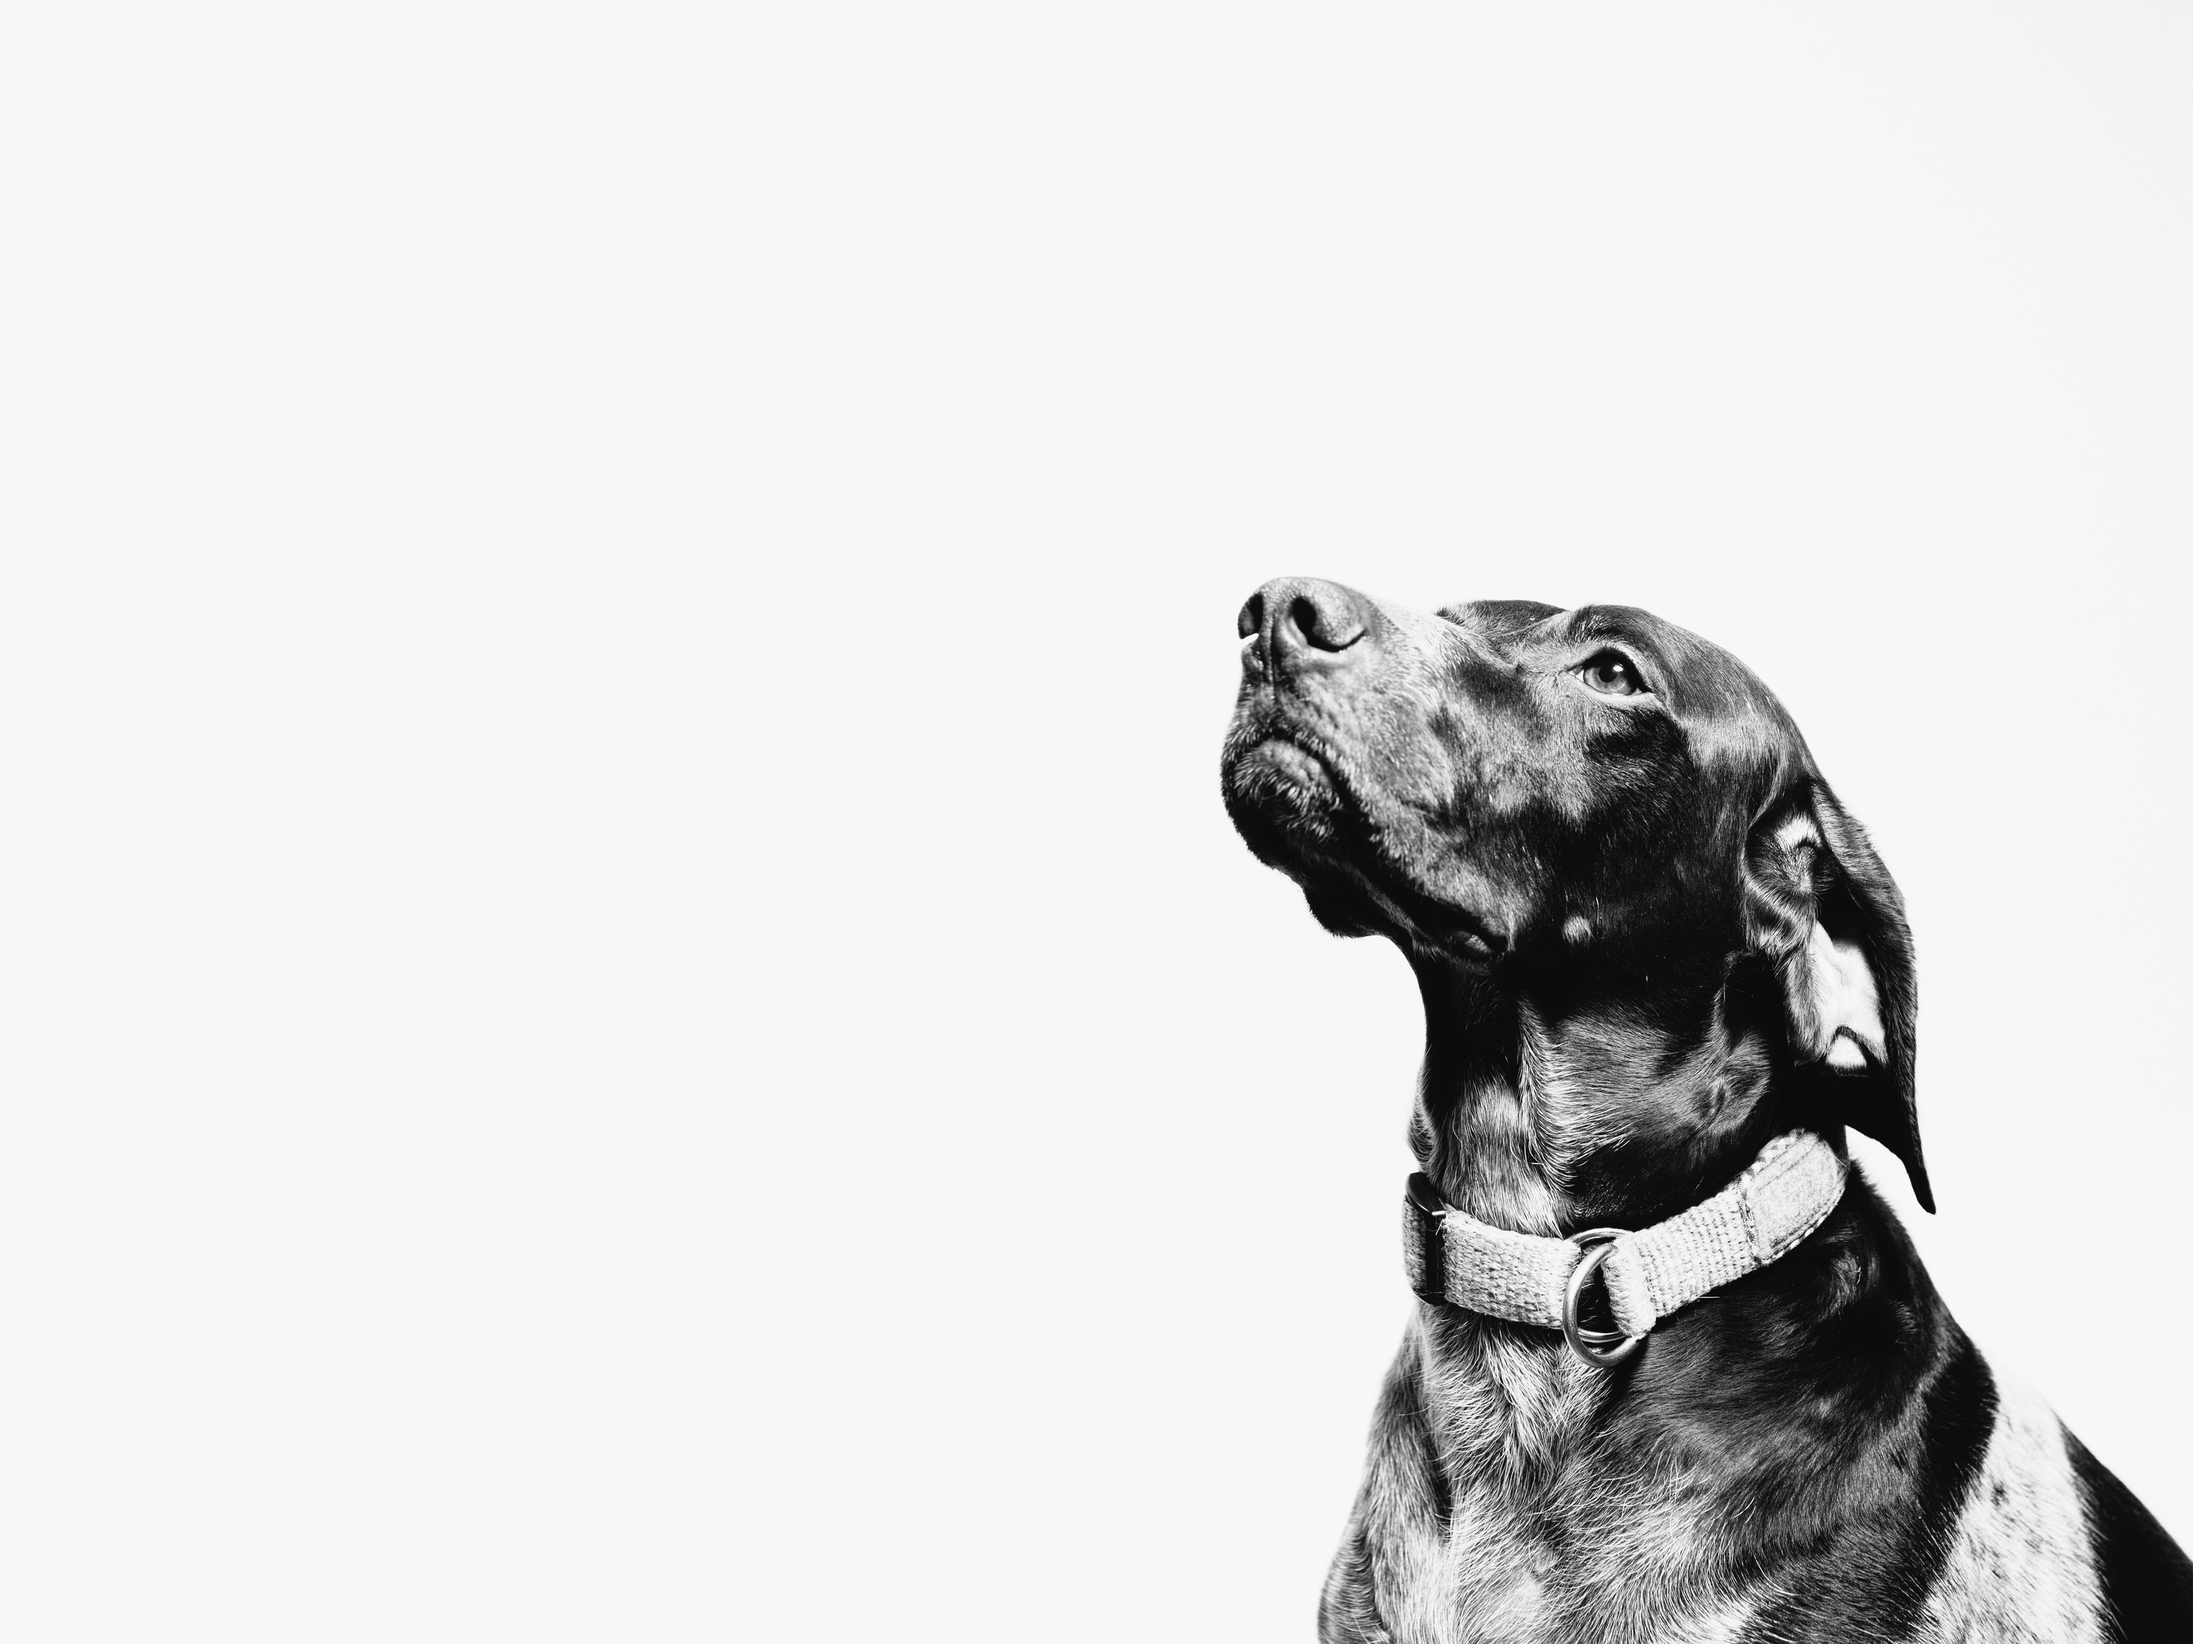
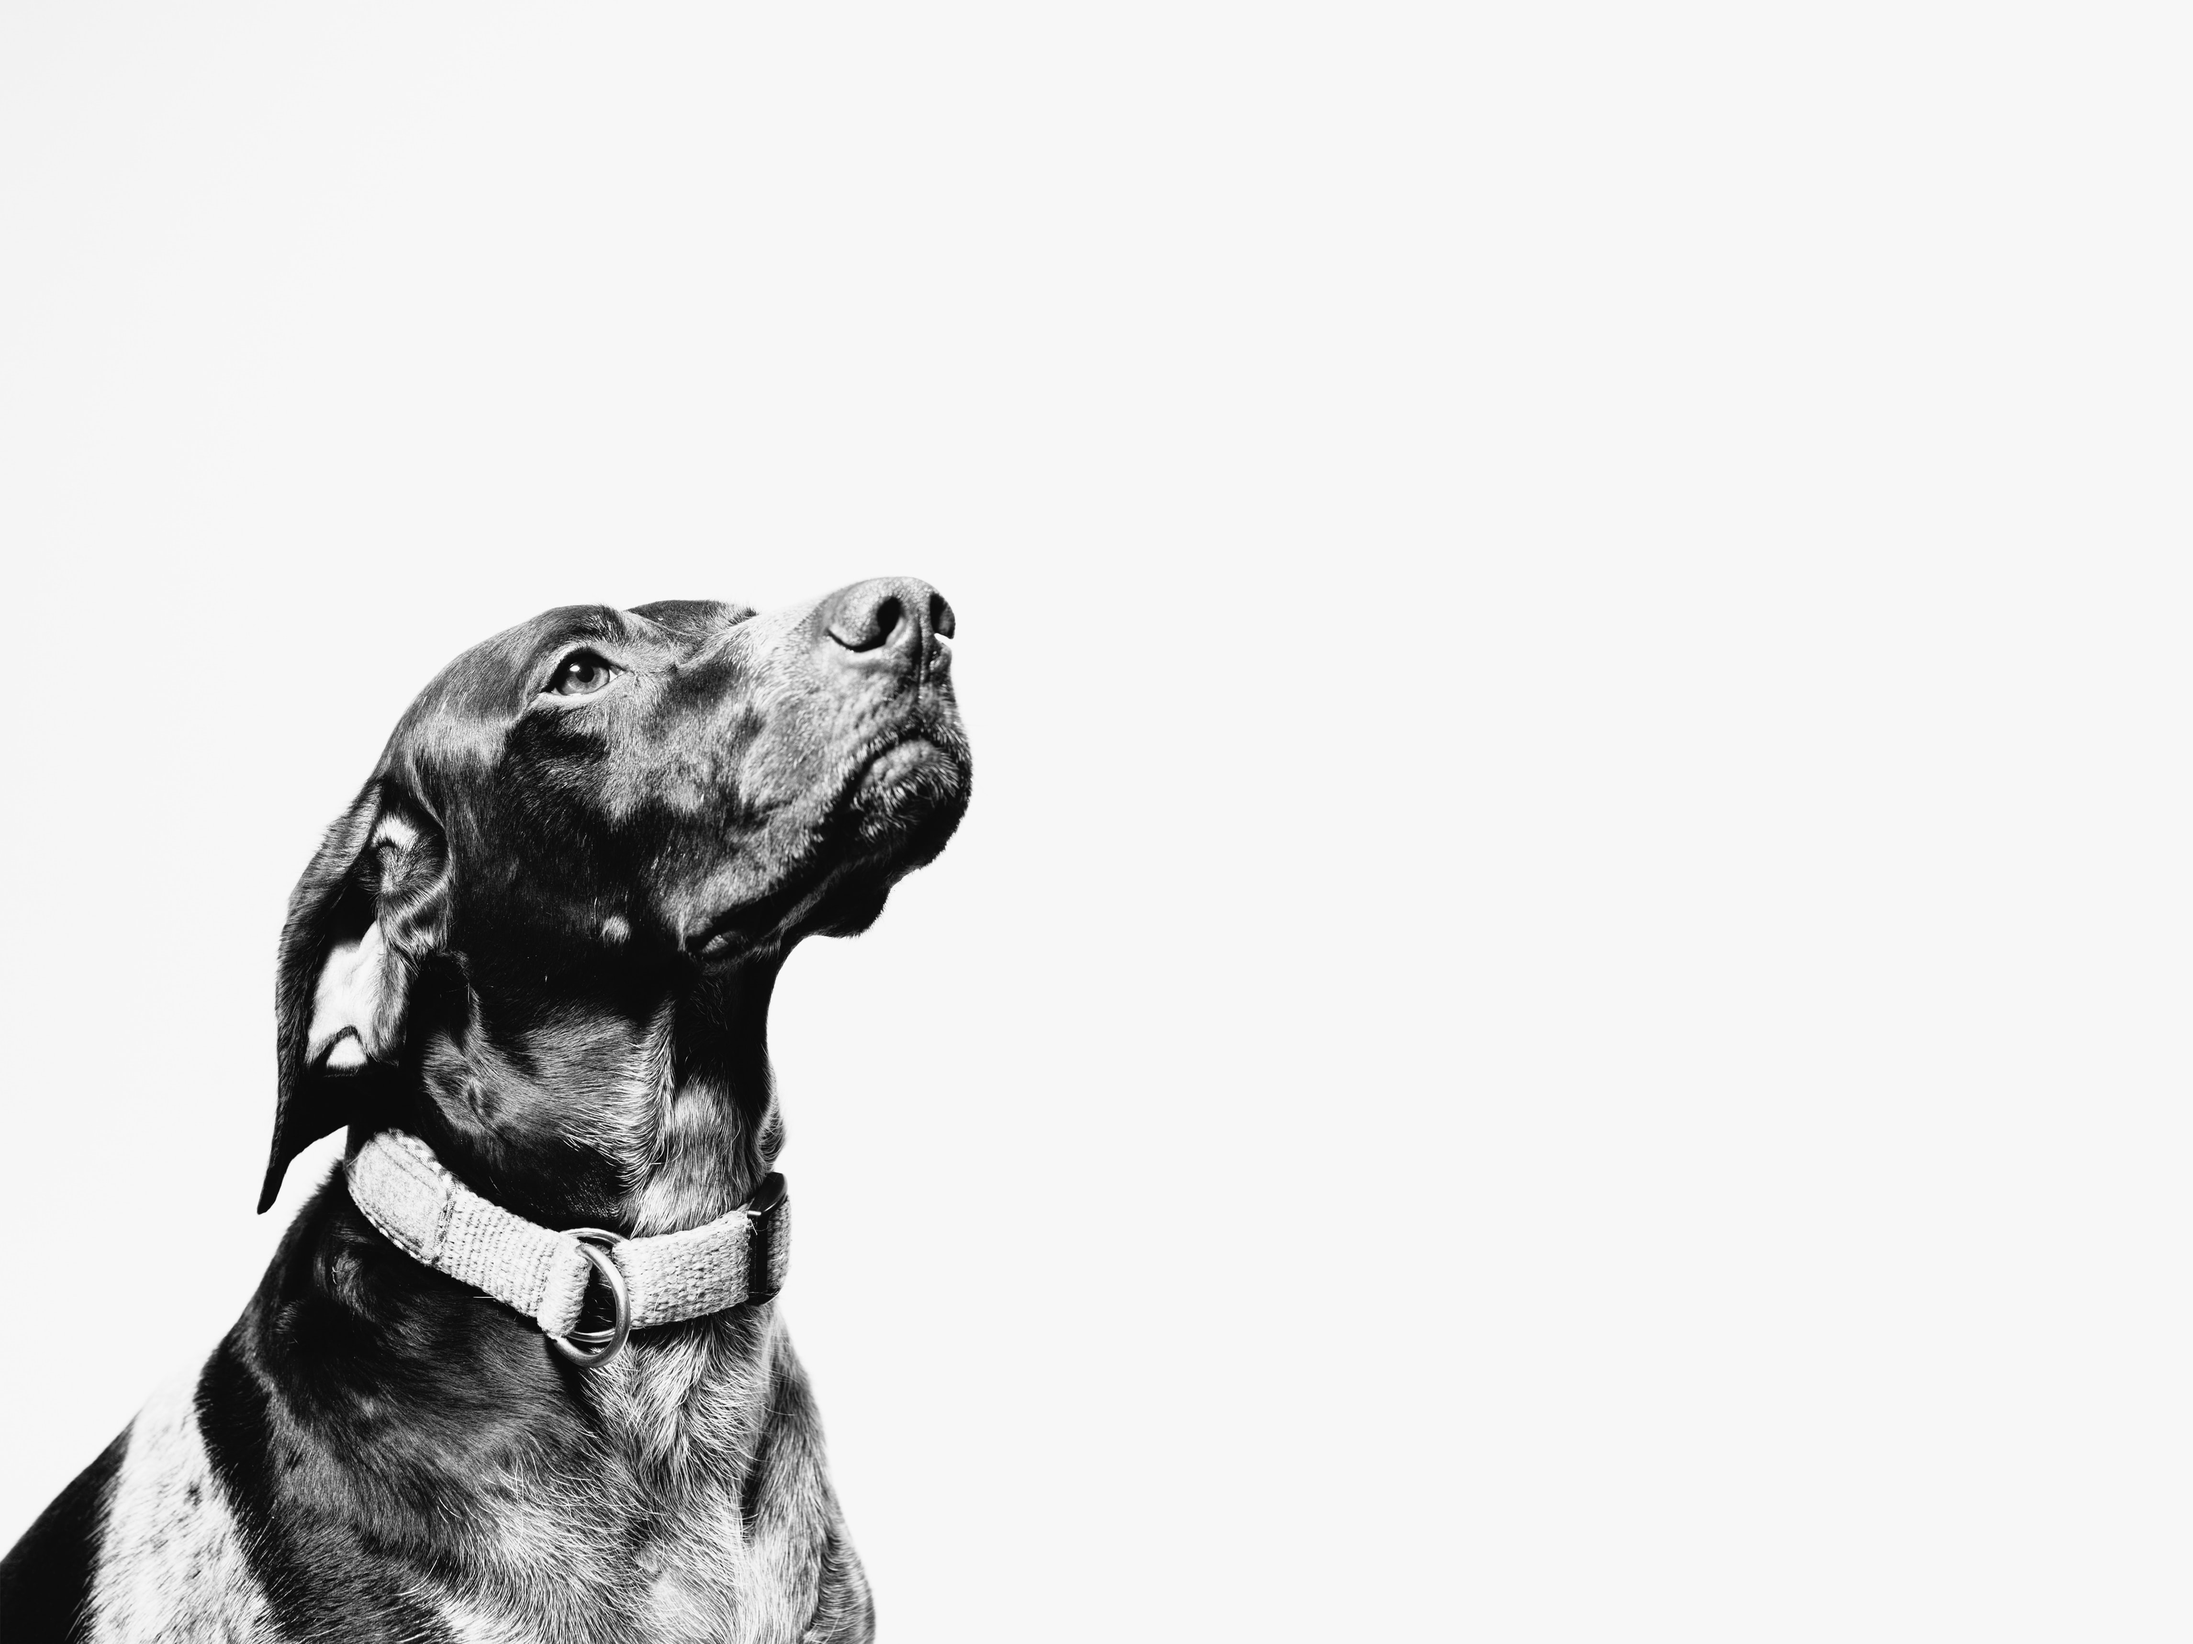
more

diff --git a/src/components/MobileNav.tsx b/src/components/MobileNav.tsx
@@ -1,22 +1,22 @@
 import React from "react";
-import { FaHome } from "react-icons/fa";
+import { FaHome, FaDog, FaHandsHelping, FaPhone } from "react-icons/fa";
 
 const MobileNav = () => {
   return (
     <>
-      <div className="fixed flex h-32 w-full bottom-0 p-4 justify-center items-center ">
-        <ul className="grid grid-cols-4 grid-rows-1 gap-4  h-2/3 w-full rounded-full backdrop-blur-md shadow-sm m-8">
-          <li className="flex items-center justify-center text-white bg-white rounded-full m-2">
-            <FaHome className="h-6 w-6 fill-slate-500" />
+      <div className="bottom-0 fixed flex h-32 w-full p-4 justify-center items-center">
+        <ul className="grid grid-cols-4 grid-rows-1 gap-4 h-2/3 w-full md:w-1/2 lg:w-1/4 rounded-full bg-white m-8 shadow-lg">
+          <li className="mobile-nav-btn">
+            <FaHome className="h-6 w-6" />
           </li>
-          <li className="flex items-center justify-center text-white bg-white rounded-full m-2">
-            <FaHome className="h-6 w-6 fill-slate-500" />
+          <li className="mobile-nav-btn">
+            <FaDog className="h-6 w-6" />
           </li>
-          <li className="flex items-center justify-center text-white bg-white rounded-full m-2">
-            <FaHome className="h-6 w-6 fill-slate-500" />
+          <li className="mobile-nav-btn">
+            <FaHandsHelping className="h-6 w-6" />
           </li>
-          <li className="flex items-center justify-center text-white bg-white rounded-full m-2">
-            <FaHome className="h-6 w-6 fill-slate-500" />
+          <li className="mobile-nav-btn">
+            <FaPhone className="h-6 w-6" />
           </li>
         </ul>
       </div>

diff --git a/src/components/Header.tsx b/src/components/Header.tsx
@@ -1,35 +1,12 @@
-import React, { useEffect, useRef, useState, useMemo } from "react";
+import React, { useRef } from "react";
 import { createPortal } from "react-dom";
+import { useIsVisible } from "../hooks/useIsVisible";
 
 import MobileNav from "./MobileNav";
 
 export const Header = () => {
-  const navRef = useRef(null);
-
-  const useIsVisible = (ref) => {
-    const [isVisible, setIsVisible] = useState(false);
-
-    const observer = useMemo(
-      () =>
-        new IntersectionObserver(([entry]) =>
-          setIsVisible(entry.isIntersecting)
-        ),
-      []
-    );
-
-    useEffect(() => {
-      observer.observe(ref.current);
-
-      return () => {
-        observer.disconnect();
-      };
-    }, [ref, observer]);
-
-    return isVisible;
-  };
-
+  const navRef = useRef<HTMLElement>(null);
   const isInViewport = useIsVisible(navRef);
-  console.log(isInViewport);
 
   return (
     <>

diff --git a/src/components/About.tsx b/src/components/About.tsx
@@ -7,15 +7,13 @@ export const About = () => {
   const screenSize = useSizeCheck();
   return (
     <section className="w-full h-screen flex flex-col md:flex-row text-white justify-center items-center">
-      {!screenSize && (
-        <StaticImage
-          src={"../images/holdinghands2.jpg"}
-          alt={"witam"}
-          className="md:w-1/4"
-        />
-      )}
+      <StaticImage
+        src={"../images/holdinghands2.jpg"}
+        alt={"witam"}
+        className="hidden sm:block sm:w-1/2"
+      />
       <div className="ml-4 w-4/5 md:w-1/4">
-        <h1 className="font-merri text-2xl md:text-3xl text-center md:text-left mb-4 md:mb-8">
+        <h1 className="font-merri text-xl sm:text-3xl text-center md:text-left mb-4 md:mb-8">
           About the Shelter <br></br>
           <span className="font-playfair text-slate-400 text-3xl md:text-6xl">
             Lovely Paws

diff --git a/src/components/FormsOfHelp/Donation.tsx b/src/components/FormsOfHelp/Donation.tsx
@@ -6,11 +6,11 @@ export const Donation = () => {
   return (
     <section className="bg-white h-full w-full flex flex-col md:flex-row md:justify-center border-solid divide-y-2 border-black">
       <div className="flex flex-col items-center text-center md:text-left md:flex-row md:justify-center w-full md:w-2/3">
-        {/* <StaticImage
-          src={"../../images/doggiup.jpg"}
+        <StaticImage
+          src={"../../images/mirrordog.png"}
           alt="dog looking up"
-          className="invisible md:visible w-1/2 h-1/2 object-cover"
-        /> */}
+          className="hidden md:block w-1/3"
+        />
         <div className="flex flex-col items-center md:items-start px-6 md:px-0 md:w-1/4 m-4">
           <h1 className="font-playfair text-3xl">
             In addition, you can make a donation

diff --git a/src/styles/styles.css b/src/styles/styles.css
@@ -17,8 +17,12 @@ body {
     @apply mx-4 transition duration-300 border-b-2 rounded-sm border-transparent hover:border-slate-200 hover:cursor-pointer hover:text-slate-400;
   }
 
+  .mobile-nav-btn {
+    @apply flex items-center justify-center text-white bg-slate-600 rounded-full m-2 transition duration-300 hover:bg-slate-500 hover:cursor-pointer hover:text-white;
+  }
+
   .first-doggo {
-    @apply bg-[url('../images/wrr.jpg')] bg-cover;
+    @apply bg-[url('../images/doggi.jpg')] bg-cover;
   }
 
   .second-doggo {

diff --git a/src/pages/index.tsx b/src/pages/index.tsx
@@ -1,11 +1,10 @@
-import * as React from "react";
+import React, { useRef } from "react";
 import "../styles/styles.css";
 
 import { Welcome } from "../components/Welcome";
 import { About } from "../components/About";
 import { PetsShowcase } from "../components/PetsShowcase/PetsShowcase";
 import { HelpSection } from "../components/FormsOfHelp/HelpSection";
-import { Donation } from "../components/FormsOfHelp/Donation";
 import { Footer } from "../components/footer/Footer";
 
 const IndexPage = () => {

diff --git a/src/hooks/useIsVisible.ts b/src/hooks/useIsVisible.ts
@@ -1,0 +1,21 @@
+import { useEffect, useState, useMemo } from "react";
+
+export const useIsVisible = (ref: any) => {
+  const [isVisible, setIsVisible] = useState(false);
+
+  const observer = useMemo(
+    () =>
+      new IntersectionObserver(([entry]) => setIsVisible(entry.isIntersecting)),
+    []
+  );
+
+  useEffect(() => {
+    observer.observe(ref.current);
+
+    return () => {
+      observer.disconnect();
+    };
+  }, [ref, observer]);
+
+  return isVisible;
+};

diff --git a/tailwind.config.js b/tailwind.config.js
@@ -10,6 +10,14 @@ module.exports = {
         playfair: ['"Playfair Display"', "serif"],
         merri: ['"Merriweather"', "serif"],
       },
+      animation: {
+        appear: "appear 1s ease-in",
+      },
+      keyframes: {
+        appear: {
+          "100%": { bottom: "0px" },
+        },
+      },
     },
   },
   plugins: ["gatsby-plugin-postcss"],
